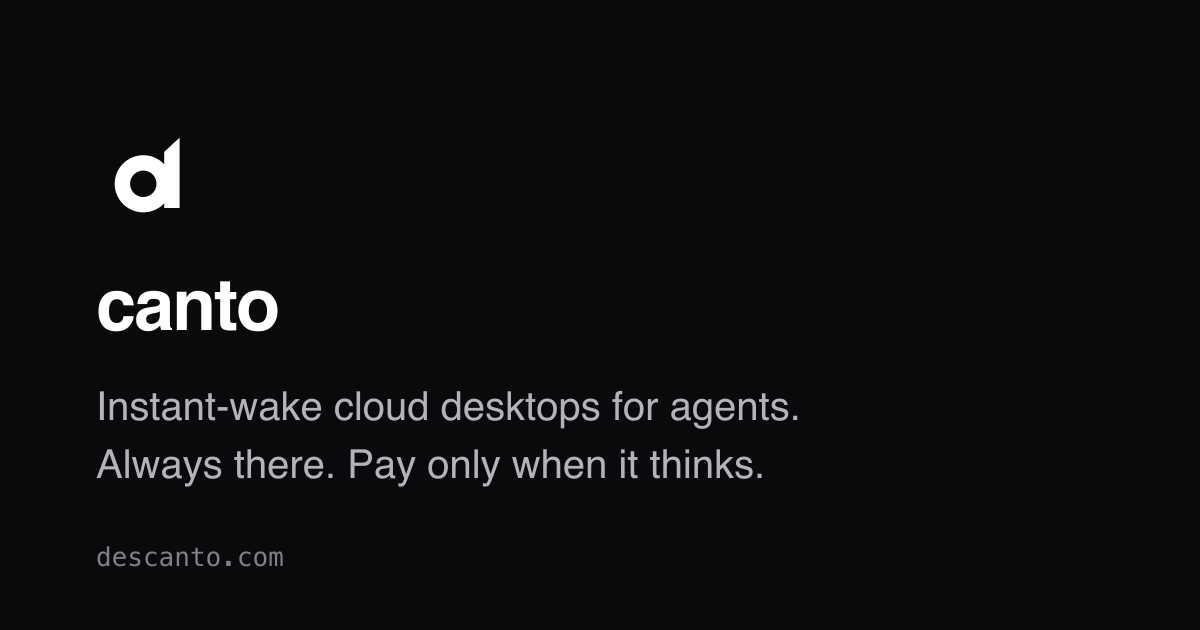
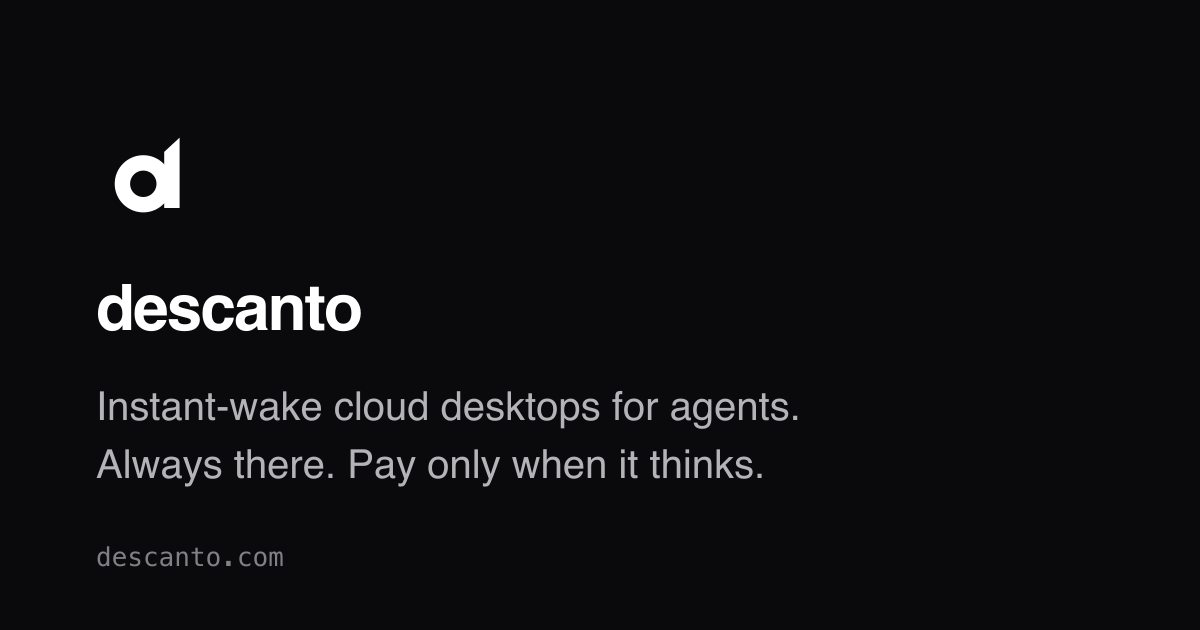
feat(brand): rename product from Canto to Descanto across site and docs
Brand copy only: headlines, prose, titles, meta descriptions, JSON-LD,
llms.txt (www + docs), logotype text, OG image, docs chrome and mdx prose,
news posts, contact-form subject. Working technical identifiers are
unchanged on purpose until the backend/SDK rename ships: the canto CLI
binary, CANTO_API_KEY / CANTO_BASE_URL, canto_sk_ key prefix, canto.host
ingress domain, canto-theme storage key, @descanto/vm-* npm packages, and
SDK class/error names (Canto, CantoApiError, Canto-Signature).

Changed region(s): [[0.0925, 0.4524, 0.3083, 0.5429]]

diff --git a/src/lib/seo.ts b/src/lib/seo.ts
@@ -18,57 +18,57 @@ export interface PageMeta {
 export const staticPages: PageMeta[] = [
   {
     path: "/",
-    title: "Canto — instant-wake cloud desktops for agents",
+    title: "Descanto — instant-wake cloud desktops for agents",
     description:
-      "Canto gives computer-use agents a persistent Linux desktop that hibernates when idle and wakes in under a second. Honest, awake-time-only billing from $6/mo.",
+      "Descanto gives computer-use agents a persistent Linux desktop that hibernates when idle and wakes in under a second. Honest, awake-time-only billing from $6/mo.",
     ogType: "website",
   },
   {
     path: "/pricing",
-    title: "Pricing — Canto",
+    title: "Pricing — Descanto",
     description:
-      "Locked launch pricing for Canto cloud desktops: Small $6/mo, Default $12/mo, Large $24/mo — or hourly billing that meters awake time only. Hibernated desktops cost $0 compute.",
+      "Locked launch pricing for Descanto cloud desktops: Small $6/mo, Default $12/mo, Large $24/mo — or hourly billing that meters awake time only. Hibernated desktops cost $0 compute.",
     ogType: "website",
   },
   {
     path: "/news",
-    title: "News — Canto",
-    description: "Launches, releases, and engineering notes from the team building Canto.",
+    title: "News — Descanto",
+    description: "Launches, releases, and engineering notes from the team building Descanto.",
     ogType: "website",
   },
   {
     path: "/about",
-    title: "About — Canto",
+    title: "About — Descanto",
     description:
-      "Canto builds the computer agents work on: persistent cloud desktops in hardware-isolated microVMs that wake in half a second and never forget where they were.",
+      "Descanto builds the computer agents work on: persistent cloud desktops in hardware-isolated microVMs that wake in half a second and never forget where they were.",
     ogType: "website",
   },
   {
     path: "/contact",
-    title: "Contact — Canto",
+    title: "Contact — Descanto",
     description:
-      "Talk to the team behind Canto — early access, fleet sizing, security reports, or anything else. hello@descanto.com, GitHub, or the contact form.",
+      "Talk to the team behind Descanto — early access, fleet sizing, security reports, or anything else. hello@descanto.com, GitHub, or the contact form.",
     ogType: "website",
   },
   {
     path: "/privacy",
-    title: "Privacy policy — Canto",
+    title: "Privacy policy — Descanto",
     description:
-      "What Descanto collects to run Canto, why, and what we never do with it. No tracking cookies, no selling data, your desktop contents are yours.",
+      "What Descanto collects to run the platform, why, and what we never do with it. No tracking cookies, no selling data, your desktop contents are yours.",
     ogType: "article",
   },
   {
     path: "/terms",
-    title: "Terms of service — Canto",
+    title: "Terms of service — Descanto",
     description:
-      "The terms governing Canto cloud desktops during early access: the service, your responsibilities, billing, your data, and liability.",
+      "The terms governing Descanto cloud desktops during early access: the service, your responsibilities, billing, your data, and liability.",
     ogType: "article",
   },
   {
     path: "/early-access",
-    title: "Request early access — Canto",
+    title: "Request early access — Descanto",
     description:
-      "Canto desktops are manually provisioned during early access. Tell us what you're building and we'll get you an API key as capacity opens up.",
+      "Descanto desktops are manually provisioned during early access. Tell us what you're building and we'll get you an API key as capacity opens up.",
     ogType: "website",
   },
 ];
@@ -80,7 +80,7 @@ export const homeJsonLd = {
     {
       "@type": "SoftwareApplication",
       "@id": `${SITE_URL}/#software`,
-      name: "Canto",
+      name: "Descanto",
       description:
         "Instant-wake, persistent Linux cloud desktops for computer-use agents. Desktops hibernate to $0 compute when idle and wake in under a second with tabs, processes, and logins intact. Driven by a REST API, TypeScript and Python SDKs, a CLI, and an MCP server.",
       url: SITE_URL,
@@ -108,7 +108,7 @@ export const homeJsonLd = {
         addressCountry: "GB",
       },
       logo: `${SITE_URL}/og.png`,
-      description: "Descanto builds Canto, the cloud desktop platform for computer-use agents.",
+      description: "Descanto is the cloud desktop platform for computer-use agents, built by DV CENTRAL HOLDINGS LTD.",
       email: "hello@descanto.com",
       contactPoint: {
         "@type": "ContactPoint",

diff --git a/src/pages/home.tsx b/src/pages/home.tsx
@@ -4,9 +4,9 @@ import { motion, useReducedMotion } from "framer-motion";
 import { Button } from "@/components/ui/button";
 import { Reveal, Stagger, StaggerItem } from "@/components/motion";
 
-const PAGE_TITLE = "Canto — instant-wake cloud desktops for agents";
+const PAGE_TITLE = "Descanto — instant-wake cloud desktops for agents";
 const PAGE_DESCRIPTION =
-  "Canto gives computer-use agents a persistent Linux desktop that hibernates when idle and wakes in under a second. Honest, awake-time-only billing from $6/mo.";
+  "Descanto gives computer-use agents a persistent Linux desktop that hibernates when idle and wakes in under a second. Honest, awake-time-only billing from $6/mo.";
 
 function usePageMeta(title: string, description: string) {
   useEffect(() => {
@@ -80,9 +80,9 @@ const steps = [
   ["03", "Hibernate", "Hibernate when idle — memory-snapshot preserved, wake in under a second, pay nothing while asleep."],
 ];
 
-const sdkSnippet = `import { Canto } from "@descanto/vm-sdk";
+const sdkSnippet = `import { Descanto } from "@descanto/vm-sdk";
 
-const canto = new Canto({ apiKey }); // or CANTO_API_KEY env var
+const canto = new Descanto({ apiKey }); // or CANTO_API_KEY env var
 
 const d = await canto.desktops.create({ tier: "default", billingMode: "monthly" });
 
@@ -142,7 +142,7 @@ export function HomePage() {
         />
         <StaggerItem>
           <p className="max-w-155 text-[17px] leading-relaxed text-graphite">
-            Canto gives computer-use agents a persistent Linux desktop that hibernates the instant it's idle and resumes
+            Descanto gives computer-use agents a persistent Linux desktop that hibernates the instant it's idle and resumes
             exactly where it left off — tabs, processes, and logins intact. Always there. Pay only when it thinks.
           </p>
         </StaggerItem>
@@ -255,7 +255,7 @@ $ canto fork release-bot --count 20
           </div>
           <div className="grid grid-cols-3 overflow-hidden rounded-2xl border border-hairline max-md:grid-cols-1">
             {[
-              ["honest-metering", "Our slowness never bills you", "Canto meters only while your desktop responds. Cold starts, snapshots, and uploads are on us — and overage is opt-in, never a surprise."],
+              ["honest-metering", "Our slowness never bills you", "Descanto meters only while your desktop responds. Cold starts, snapshots, and uploads are on us — and overage is opt-in, never a surprise."],
               ["snapshot-native", "State is the product", "Every hibernate captures a full memory snapshot. Restore any generation, fork a running machine, and never lose where an agent left off."],
               ["hard-isolation", "MicroVM boundaries", "Every desktop is its own Firecracker microVM — hardware-virtualized isolation, not a shared container pretending to be a computer."],
             ].map(([tag, title, body], i) => (

diff --git a/src/pages/about.tsx b/src/pages/about.tsx
@@ -4,19 +4,19 @@ import { ContactForm } from "@/components/contact-form";
 const beliefs = [
   ["Trust is structural", "Hard isolation, org-scoped APIs, and honest operation handles aren't features on a list — they're the reason you can hand an agent a real computer. We build them into the architecture, not the marketing."],
   ["State is sacred", "A desktop's history is append-only: every hibernate captures a generation, restore never destroys data, and forks never touch their parent. An agent should never lose where it was."],
-  ["Honesty is a pricing model", "Canto bills only while your desktop responds. Cold starts, snapshots, and uploads are on us — our slowness can never charge you, and overage is strictly opt-in."],
+  ["Honesty is a pricing model", "Descanto bills only while your desktop responds. Cold starts, snapshots, and uploads are on us — our slowness can never charge you, and overage is strictly opt-in."],
 ];
 
 export function AboutPage() {
   return (
     <>
       <section className="mx-auto flex max-w-[1440px] flex-col gap-6 px-20 pt-22 pb-16 max-lg:px-8">
-        <span className="text-xs font-semibold tracking-widest text-faint">ABOUT CANTO</span>
+        <span className="text-xs font-semibold tracking-widest text-faint">ABOUT DESCANTO</span>
         <h1 className="max-w-250 font-display text-[clamp(34px,3.6vw,52px)] font-bold leading-[1.2] tracking-[-0.025em]">
           Agents are becoming coworkers. Coworkers need a computer.
         </h1>
         <p className="max-w-180 text-[17px] leading-[1.65] text-graphite">
-          Canto builds that computer: a persistent cloud desktop that wakes in half a second and never forgets where it
+          Descanto builds that computer: a persistent cloud desktop that wakes in half a second and never forgets where it
           was. Every desktop is a real Linux machine in its own microVM — an agent can drive it through one API, a human
           can watch the screen and take the mouse, and the whole thing hibernates to $0 compute the moment it's idle.
         </p>

diff --git a/src/pages/terms.tsx b/src/pages/terms.tsx
@@ -4,16 +4,16 @@ export function TermsPage() {
   return (
     <LegalPage eyebrow="LEGAL" title="Terms of service" updated="August 21, 2026">
       <p>
-        These terms govern your use of Canto, the cloud desktop platform operated by Descanto (DV CENTRAL HOLDINGS LTD,
+        These terms govern your use of Descanto, the cloud desktop platform operated by DV CENTRAL HOLDINGS LTD (trading as Descanto,
         71-75 Shelton Street, Covent Garden, London WC2H 9JQ, United Kingdom) at descanto.com and its
         subdomains, including the API at api.descanto.com and desktops served under canto.host. By creating an account
-        or using an API key you agree to them. Canto is in early access: capacity is provisioned manually and the
+        or using an API key you agree to them. Descanto is in early access: capacity is provisioned manually and the
         service is offered as-is while we build toward general availability.
       </p>
 
       <h2>The service</h2>
       <p>
-        Canto provides persistent Linux desktops that hibernate when idle and wake on demand, driven by a REST API,
+        Descanto provides persistent Linux desktops that hibernate when idle and wake on demand, driven by a REST API,
         SDKs, a CLI, and an MCP server. Desktops are isolated microVMs; what you install and run inside them is your
         responsibility. We may update, add, or retire features during early access, and we'll communicate breaking API
         changes through versioned routes and the changelog.

diff --git a/scripts/prerender.ts b/scripts/prerender.ts
@@ -44,7 +44,7 @@ const targets: RenderTarget[] = [
   })),
   ...posts.map((post: { slug: string; title: string; description: string; date: string }) => ({
     path: `/news/${post.slug}`,
-    title: `${post.title} — Canto News`,
+    title: `${post.title} — Descanto News`,
     description: post.description,
     ogType: "article" as const,
     lastmod: post.date,
@@ -70,7 +70,7 @@ function buildPage(target: RenderTarget, appHtml: string): string {
     `<meta property="og:url" content="${canonical}" />`,
     `<meta property="og:type" content="${target.ogType}" />`,
     `<meta property="og:image" content="${OG_IMAGE}" />`,
-    `<meta property="og:site_name" content="Canto" />`,
+    `<meta property="og:site_name" content="Descanto" />`,
     `<meta name="twitter:card" content="summary_large_image" />`,
     target.jsonLd ? `<script type="application/ld+json">${JSON.stringify(target.jsonLd)}</script>` : "",
   ]
@@ -110,7 +110,7 @@ async function main() {
     buildPage(
       {
         path: "/404",
-        title: "Page not found — Canto",
+        title: "Page not found — Descanto",
         description: "This page doesn't exist. See the sitemap, llms.txt, or docs for everything that does.",
         ogType: "website",
         lastmod: buildDate,

diff --git a/src/pages/privacy.tsx b/src/pages/privacy.tsx
@@ -5,7 +5,7 @@ export function PrivacyPage() {
     <LegalPage eyebrow="LEGAL" title="Privacy policy" updated="August 21, 2026">
       <p>
         Descanto ("we", "us" — legally DV CENTRAL HOLDINGS LTD, 71-75 Shelton Street, Covent Garden, London WC2H 9JQ,
-        United Kingdom) operates Canto, a cloud desktop platform for computer-use agents, at descanto.com and its
+        United Kingdom) operates the Descanto platform, a cloud desktop service for computer-use agents, at descanto.com and its
         subdomains. This policy explains what we collect, why, and what we never do with it. The short version: we
         collect the minimum needed to run the service and answer your messages, we don't sell data, and the contents of
         your desktops are yours.
@@ -20,7 +20,7 @@ export function PrivacyPage() {
           ready.
         </li>
         <li>
-          <strong>Service and billing data.</strong> Operating Canto produces operational records: desktop metadata
+          <strong>Service and billing data.</strong> Operating Descanto produces operational records: desktop metadata
           (tier, lifecycle state, timestamps), API request logs, and metering records used for billing. Metering counts
           awake time only.
         </li>

diff --git a/src/components/nav.tsx b/src/components/nav.tsx
@@ -99,7 +99,7 @@ const developerSecondary: MenuEntry[] = [
   { to: "https://github.com/descanto", title: "Status", description: "" },
 ];
 const company: MenuEntry[] = [
-  { to: "/about", title: "About", description: "What Canto is building, and why." },
+  { to: "/about", title: "About", description: "What Descanto is building, and why." },
   { to: "/news", title: "News", description: "Launches, releases, and engineering notes." },
   { to: "/contact", title: "Contact", description: "hello@descanto.com — the repo is the front door." },
 ];
@@ -174,7 +174,7 @@ export function Nav() {
       <nav className="mx-auto flex h-18 max-w-[1440px] items-center gap-10 px-8 max-md:gap-4 max-md:px-5">
         <Link to="/" className="flex shrink-0 items-center gap-2.5">
           <Mark size={24} />
-          <span className="font-display text-lg font-bold tracking-tight">canto</span>
+          <span className="font-display text-lg font-bold tracking-tight">descanto</span>
         </Link>
         <div className="flex flex-1 items-center gap-8 max-md:hidden">
           <NavDropdown label="Developer" primary={developer} secondary={developerSecondary} />

diff --git a/tests/prerender.test.ts b/tests/prerender.test.ts
@@ -50,7 +50,7 @@ describe.if(built)("prerendered output", () => {
     for (const page of ["pricing", "about", "contact", "privacy", "terms", "news", "early-access"]) {
       const html = readFileSync(join(DIST, `${page}.html`), "utf8");
       expect(html).toContain(`<link rel="canonical" href="https://descanto.com/${page}"`);
-      expect(html).not.toContain("<title>Canto — instant-wake cloud desktops for agents</title>");
+      expect(html).not.toContain("<title>Descanto — instant-wake cloud desktops for agents</title>");
     }
   });
 
@@ -90,7 +90,7 @@ describe.if(built)("prerendered output", () => {
 
   test("llms.txt ships with when-to-use guidance", () => {
     const llms = readFileSync(join(DIST, "llms.txt"), "utf8");
-    expect(llms).toContain("## When to use Canto");
+    expect(llms).toContain("## When to use Descanto");
     expect(llms).toContain("openapi.json");
     expect(llms).toContain("Accept: text/markdown");
   });

diff --git a/functions/openapi.json.ts b/functions/openapi.json.ts
@@ -1,4 +1,4 @@
-// GET /openapi.json — publish the Canto API's OpenAPI spec at the marketing
+// GET /openapi.json — publish the Descanto API's OpenAPI spec at the marketing
 // apex, where agents look for it. Fetches the live spec from
 // api.descanto.com, pins the production server URL, and overlays
 // per-operation summaries (see _openapi-overlay.ts) so every operation is
@@ -15,7 +15,7 @@ type Spec = {
 };
 
 export function overlaySpec(spec: Spec): Spec {
-  spec.servers = [{ url: "https://api.descanto.com", description: "Canto production API" }];
+  spec.servers = [{ url: "https://api.descanto.com", description: "Descanto production API" }];
   for (const methods of Object.values(spec.paths ?? {})) {
     for (const [method, op] of Object.entries(methods)) {
       if (!HTTP_METHODS.has(method) || typeof op !== "object" || op === null) continue;

diff --git a/functions/api/contact.ts b/functions/api/contact.ts
@@ -62,7 +62,7 @@ export const onRequestPost: PagesFunction<Env> = async ({ request, env }) => {
   }
 
   const to = env.CONTACT_TO ?? "hello@descanto.com";
-  const from = env.CONTACT_FROM ?? "Canto contact form <noreply@descanto.com>";
+  const from = env.CONTACT_FROM ?? "Descanto contact form <noreply@descanto.com>";
 
   const res = await fetch("https://api.resend.com/emails", {
     method: "POST",
@@ -74,7 +74,7 @@ export const onRequestPost: PagesFunction<Env> = async ({ request, env }) => {
       from,
       to: [to],
       reply_to: email,
-      subject: `Canto contact form — ${name}`,
+      subject: `Descanto contact form — ${name}`,
       html: `<p><strong>${escapeHtml(name)}</strong> &lt;${escapeHtml(email)}&gt;</p><p>${escapeHtml(message).replaceAll("\n", "<br>")}</p>`,
       text: `${name} <${email}>\n\n${message}`,
     }),

diff --git a/index.html b/index.html
@@ -4,8 +4,8 @@
     <meta charset="UTF-8" />
     <link rel="icon" type="image/svg+xml" href="/favicon.svg" />
     <meta name="viewport" content="width=device-width, initial-scale=1.0" />
-    <title>Canto — instant-wake cloud desktops for agents</title>
-    <meta name="description" content="Canto gives computer-use agents a persistent Linux desktop that hibernates when idle and wakes in under a second. Honest, awake-time-only billing." />
+    <title>Descanto — instant-wake cloud desktops for agents</title>
+    <meta name="description" content="Descanto gives computer-use agents a persistent Linux desktop that hibernates when idle and wakes in under a second. Honest, awake-time-only billing." />
     <script>
       // Apply the theme before first paint to avoid a flash. Kept in sync with src/lib/theme.ts.
       (function () {

diff --git a/functions/api/[[path]].ts b/functions/api/[[path]].ts
@@ -10,7 +10,7 @@ export const onRequest = async ({ request }: { request: Request }): Promise<Resp
       error: {
         code: "not_found",
         message: `No API route exists at ${pathname} on descanto.com.`,
-        hint: "The Canto product API lives at https://api.descanto.com/v1 — see the spec at https://descanto.com/openapi.json and docs at https://docs.descanto.com/api/overview. This host only serves POST /api/contact and POST /api/waitlist.",
+        hint: "The Descanto product API lives at https://api.descanto.com/v1 — see the spec at https://descanto.com/openapi.json and docs at https://docs.descanto.com/api/overview. This host only serves POST /api/contact and POST /api/waitlist.",
       },
     }),
     { status: 404, headers: { "Content-Type": "application/json" } },
